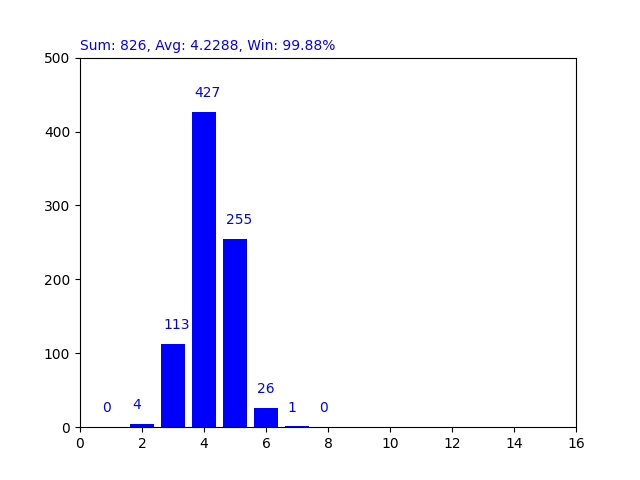
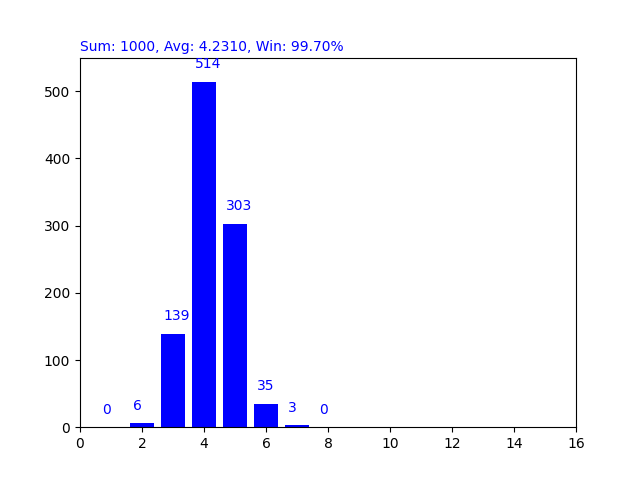
data

diff --git a/main.py b/main.py
@@ -1,0 +1,65 @@
+#!/usr/bin/env python3
+# -*- coding: utf-8 -*-
+# author            : Kinda Lam
+# email             : LamKinUn@gmail.com
+# date              : 2022-02-11
+# license           : MIT
+# py version        : 3.8.10
+
+"""
+
+Wordle: https://www.powerlanguage.co.uk/wordle/
+
+Using Entropy Information Theory
+https://en.wikipedia.org/wiki/Entropy_(information_theory)
+https://hackmd.io/@sXG2cRDpRbONCsrtz8jfqg/ry-0k0PwH
+
+    (E)xpected value, (P)robability, (I)nformation value, (b)ase
+    I(E) = log(1/P(E), b)
+         = -log(P(E), b)
+    Entropy(X) = E[I(X)] = E[-log(P(X), b)]
+               = -sum(P(xi) * log(P(xi), b)
+
+"""
+
+from Wordle import Wordle
+from WordleAI import WordleAI
+from WordleEntropyAI import WordleEntropyAI
+
+
+if __name__ == "__main__":
+    _words_path: str = "./res/words.txt"
+
+    print("""There are 6 modes for you:
+0. Normal play. 
+1. Normal play with hints. 
+2. Play and check by yourself. 
+3. Show random selection barchart.
+4. Show using Information Theory with 3s calculating time barchart.
+5. Show using Information Theory with 30s calculating time barchart.""")
+    _mode: int = int(input("Mode:"))
+
+    if _mode == 0:      # Normal play.
+        game: Wordle = Wordle(_words_path)
+        game.new_game()
+        game.play()
+    elif _mode == 1:    # Normal play with hints.
+        game: WordleEntropyAI = WordleEntropyAI(_words_path, 3, True, False)
+        game.new_game()
+        game.play()
+    elif _mode == 2:    # Play and check by yourself.
+        game: WordleEntropyAI = WordleEntropyAI(_words_path, 3, True, True)
+        game.new_game()
+        game.play()
+    elif _mode == 3:    # Show random selection barchart.
+        game: WordleAI = WordleAI(_words_path)
+        game.auto_play("./data/data_random_selection.txt", 1000)
+        WordleAI.show_barchart("./data/data_random_selection.txt", 10, 16, 550)
+    elif _mode == 4:    # Show using Information Theory with 3s calculating time barchart.
+        game: WordleEntropyAI = WordleEntropyAI(_words_path, 3)
+        game.auto_play("./data/data_information_theory_3s.txt", 1000)
+        WordleEntropyAI.show_barchart("./data/data_information_theory_3s.txt", 10, 16, 550)
+    elif _mode == 5:    # Show using Information Theory with 30s calculating time barchart.
+        game: WordleEntropyAI = WordleEntropyAI(_words_path, 30)
+        game.auto_play("./data/data_information_theory_30s.txt", 1000)
+        WordleEntropyAI.show_barchart("./data/data_information_theory_30s.txt", 10, 16, 550)

diff --git a/WordleEntropyAI.py b/WordleEntropyAI.py
@@ -6,18 +6,25 @@ import time
 
 
 class WordleEntropyAI(WordleAI):
-    def __init__(self, words_path: str, time_limit: float = 3):
-        super().__init__(words_path)
+    def __init__(self, words_path: str, time_limit: float = 3, human_player: bool = False, human_checker: bool = False):
+        super().__init__(words_path, human_player, human_checker)
         self.time_limit: float = time_limit
 
     def get_guess(self) -> str:
-        if len(self.possible_words) <= 2: return self.possible_words[0]
         entropy_map: {str, float} = self.get_entropy_map__(self.possible_words, self.words, self.time_limit)
         print("   Suggestions:")
-        for i, (k, v) in enumerate(entropy_map.items()):
-            if i == 3: break
-            print("      %d. %s %.4f" % (i + 1, k, v))
-        return next(iter(entropy_map))
+        if len(self.possible_words) <= 2:
+            print(self.possible_words)
+        else:
+            for i, (k, v) in enumerate(entropy_map.items()):
+                if i == 3: break
+                print("      %d. %s %.4f" % (i + 1, k, v))
+
+        if self.human_player:
+            return super().get_guess()
+        else:
+            if len(self.possible_words) <= 2: return self.possible_words[0]
+            return next(iter(entropy_map))
 
     @classmethod
     def get_entropy__(cls, word: str, possible_words: [str]) -> float:
@@ -45,4 +52,4 @@ class WordleEntropyAI(WordleAI):
 if __name__ == "__main__":
     game = WordleEntropyAI("./res/words.txt", 30)
     game.auto_play("./data/data_information_theory_30s.txt", 1000)
-    game.show_barchart("./data/data_information_theory_30s.txt", 10, 16, 500)
+    game.show_barchart("./data/data_information_theory_30s.txt", 10, 16, 550)

diff --git a/Wordle.py b/Wordle.py
@@ -45,7 +45,7 @@ class Wordle(object):
             pattern: str = self.get_pattern()
             self.filter_possible_words(pattern)
 
-            print("%d. %s | %s | %s" % (self.n_guess, self.guess, pattern, self.possible_words[:10]))
+            print("%d. %s | %s | %s" % (self.n_guess, self.guess, pattern, self.possible_words[:0]))
         return self.n_guess
 
     @classmethod

diff --git a/WordleAI.py b/WordleAI.py
@@ -70,4 +70,4 @@ class WordleAI(Wordle):
 if __name__ == "__main__":
     game = WordleAI("./res/words.txt")
     game.auto_play("./data/data_random_selection.txt", 1000)
-    game.show_barchart("./data/data_random_selection.txt", 10, 16, 500)
+    game.show_barchart("./data/data_random_selection.txt", 10, 16, 550)
